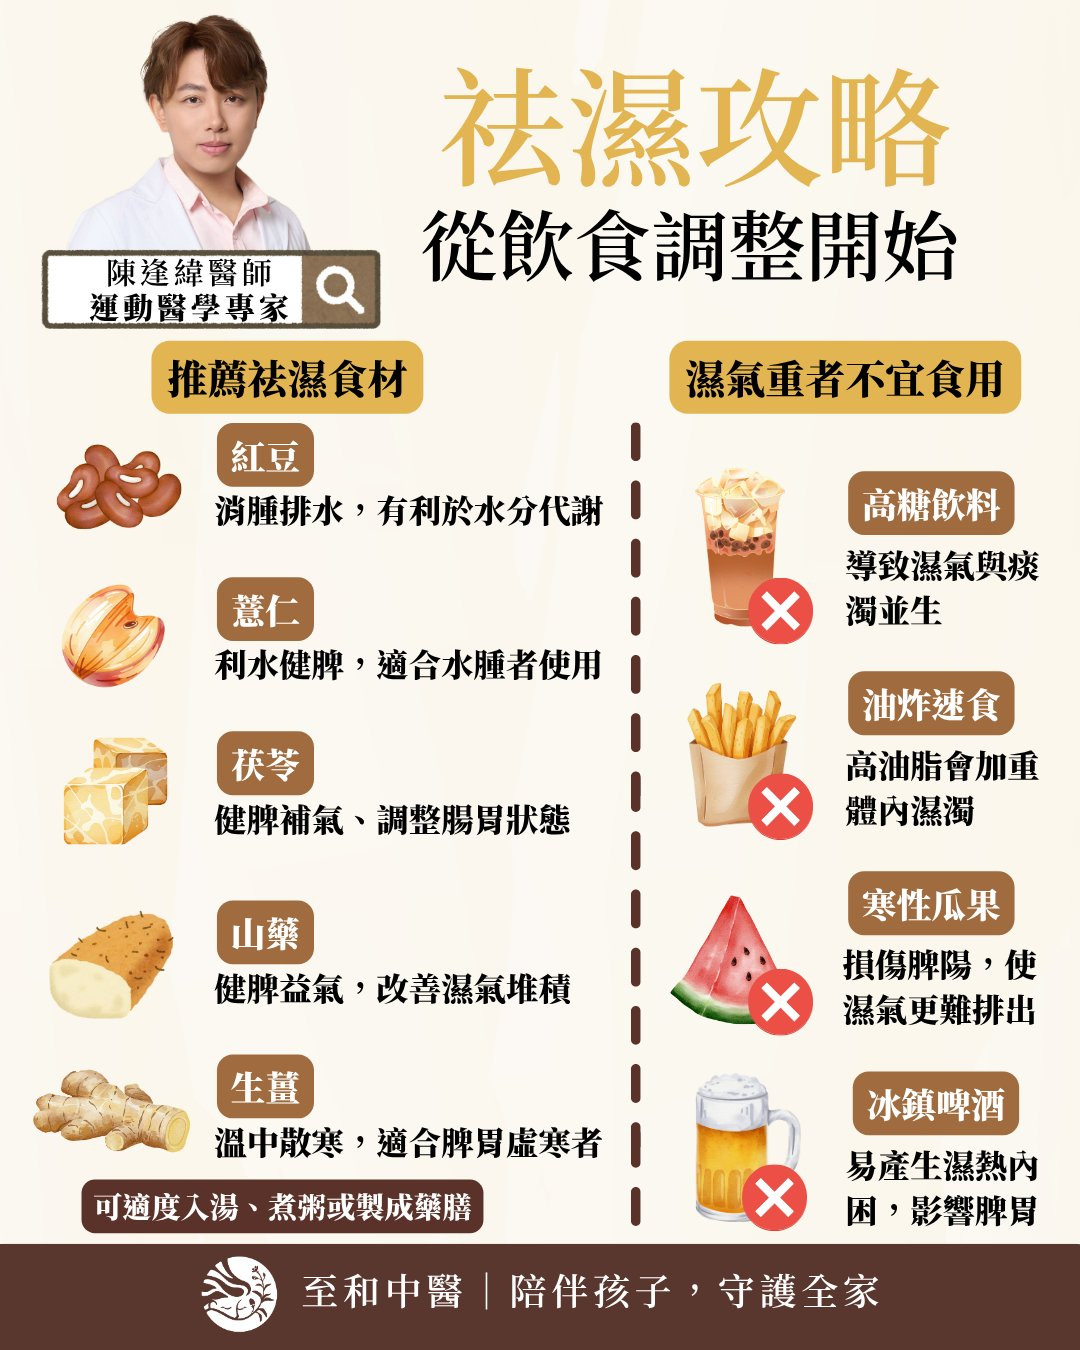
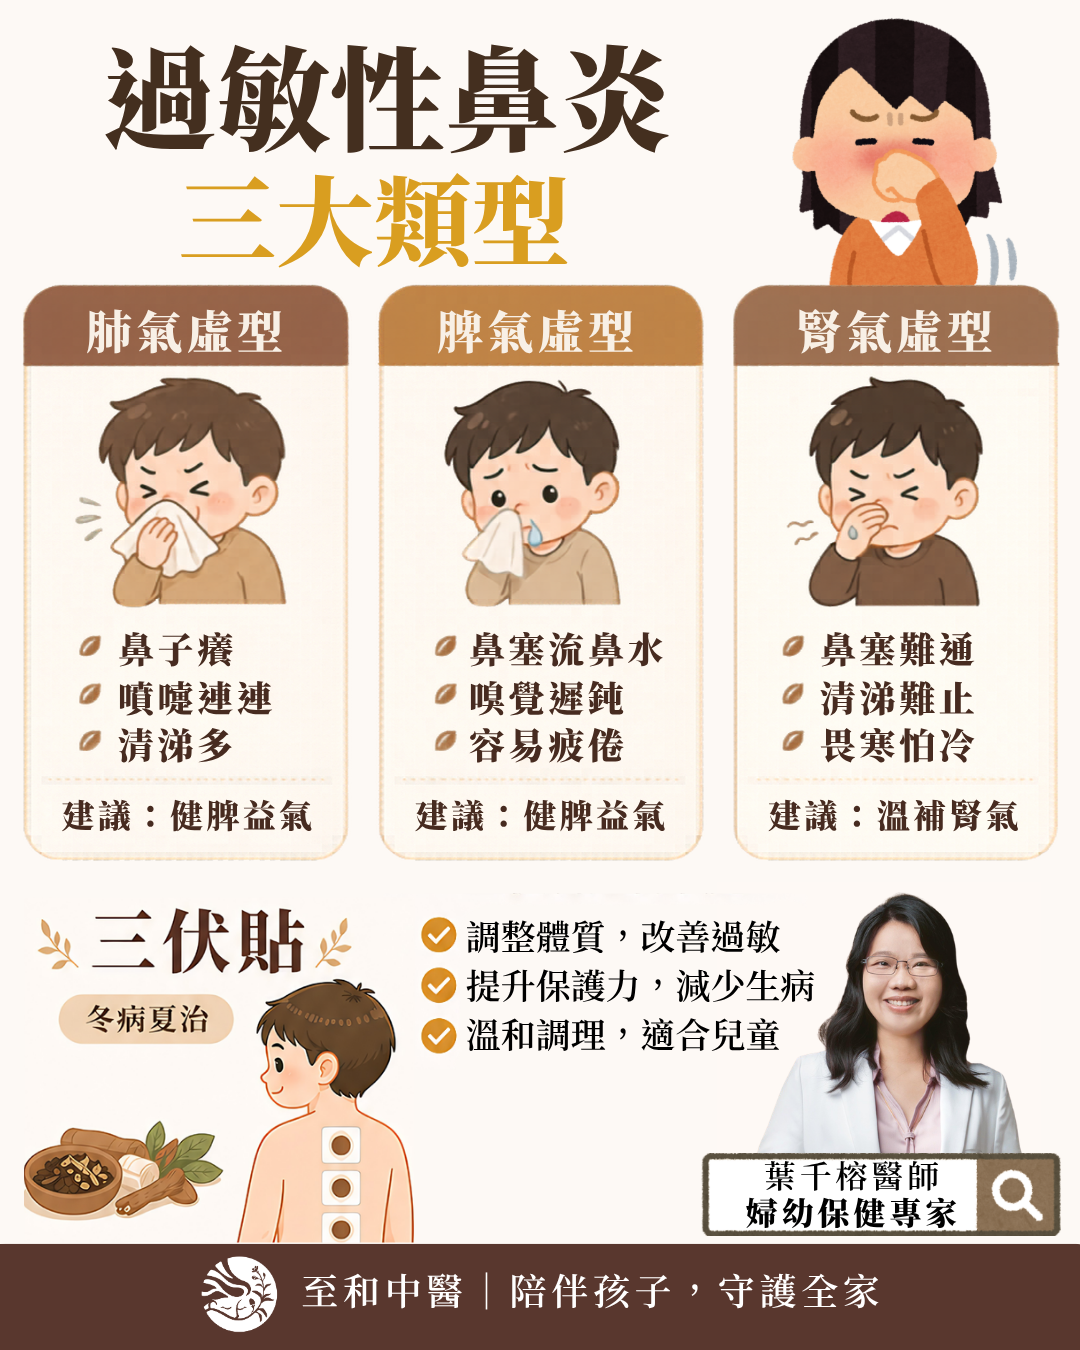
Add files via upload

diff --git a/index.html b/index.html
@@ -1,143 +1,52 @@
-<!DOCTYPE html>
-<html lang="zh-TW">
-<head>
-<meta charset="UTF-8">
-<meta name="viewport" content="width=device-width, initial-scale=1.0">
-<title>至和中醫｜過敏衛教</title>
-<link href="https://fonts.googleapis.com/css2?family=Noto+Serif+TC:wght@300;400;500;600&family=Noto+Sans+TC:wght@300;400;500&display=swap" rel="stylesheet">
-<style>
-  :root {
-    --brand-red: #6B3D2E;
-    --brand-gold: #9A7339;
-    --brand-dark: #1A1A1A;
-    --brand-muted: #A89070;
-    --brand-bg: #F7F5F0;
-    --brand-accent: #C9A344;
-    --brand-line: #06C755;
-  }
-  * { box-sizing: border-box; margin: 0; padding: 0; }
-  body { font-family: 'Noto Serif TC', serif; background-color: var(--brand-bg); color: var(--brand-dark); min-height: 100vh; }
-  .header { background: var(--brand-red); padding: 28px 20px 24px; text-align: center; position: relative; overflow: hidden; }
-  .header::before { content: ''; position: absolute; top: -40px; right: -40px; width: 160px; height: 160px; border-radius: 50%; background: rgba(201,163,68,0.12); }
-  .header::after { content: ''; position: absolute; bottom: -30px; left: -30px; width: 120px; height: 120px; border-radius: 50%; background: rgba(255,255,255,0.06); }
-  .header-logo { font-size: 13px; color: rgba(255,255,255,0.7); letter-spacing: 3px; font-family: 'Noto Sans TC', sans-serif; font-weight: 300; margin-bottom: 8px; }
-  .header-title { font-size: 28px; color: #fff; font-weight: 600; letter-spacing: 2px; line-height: 1.3; }
-  .header-sub { font-size: 14px; color: var(--brand-accent); margin-top: 6px; letter-spacing: 1px; font-weight: 400; }
-  .divider { display: flex; align-items: center; gap: 12px; padding: 0 24px; margin: 28px 0 20px; }
-  .divider-line { flex: 1; height: 1px; background: var(--brand-muted); opacity: 0.35; }
-  .divider-text { font-size: 13px; color: var(--brand-gold); letter-spacing: 2px; font-weight: 500; white-space: nowrap; }
-  .images-container { padding: 0 16px; display: flex; flex-direction: column; gap: 20px; }
-  .image-card { background: #fff; border-radius: 16px; overflow: hidden; border: 1px solid rgba(154,115,57,0.15); box-shadow: 0 2px 12px rgba(107,61,46,0.08); }
-  .image-card img { width: 100%; display: block; }
-  .image-caption { padding: 12px 16px; font-size: 13px; color: var(--brand-muted); text-align: center; letter-spacing: 1px; font-family: 'Noto Sans TC', sans-serif; font-weight: 300; }
-  .cta-section { padding: 32px 20px 16px; }
-  .cta-title { text-align: center; font-size: 18px; color: var(--brand-red); font-weight: 600; letter-spacing: 2px; margin-bottom: 6px; }
-  .cta-sub { text-align: center; font-size: 13px; color: var(--brand-muted); letter-spacing: 1px; margin-bottom: 24px; font-family: 'Noto Sans TC', sans-serif; font-weight: 300; }
-  .branch-list { display: flex; flex-direction: column; gap: 16px; }
-  .branch-card { background: #fff; border-radius: 16px; border: 1.5px solid rgba(154,115,57,0.2); box-shadow: 0 2px 10px rgba(107,61,46,0.07); overflow: hidden; position: relative; }
-  .branch-card::before { content: ''; position: absolute; left: 0; top: 0; bottom: 0; width: 4px; background: var(--brand-red); border-radius: 4px 0 0 4px; }
-  .branch-inner { display: flex; align-items: center; }
-  .doctor-photo { width: 100px; min-width: 100px; height: 120px; object-fit: cover; object-position: top center; display: block; }
-  .branch-content { flex: 1; padding: 14px 14px 14px 16px; display: flex; flex-direction: column; gap: 4px; }
-  .doctor-label { font-size: 11px; color: var(--brand-accent); letter-spacing: 1px; font-family: 'Noto Sans TC', sans-serif; font-weight: 500; }
-  .branch-name { font-size: 17px; font-weight: 600; color: var(--brand-red); letter-spacing: 1px; }
-  .branch-spec { font-size: 12px; color: var(--brand-muted); font-family: 'Noto Sans TC', sans-serif; font-weight: 300; letter-spacing: 0.5px; margin-bottom: 8px; }
-  .line-btn { display: inline-flex; align-items: center; gap: 6px; background: var(--brand-line); color: #fff; font-size: 13px; font-weight: 500; padding: 7px 14px; border-radius: 20px; text-decoration: none; font-family: 'Noto Sans TC', sans-serif; width: fit-content; }
-  .line-btn:active { opacity: 0.85; }
-  .footer { margin-top: 36px; padding: 24px 20px; background: var(--brand-red); text-align: center; }
-  .footer-brand { font-size: 15px; color: rgba(255,255,255,0.9); letter-spacing: 2px; font-weight: 500; margin-bottom: 4px; }
-  .footer-slogan { font-size: 12px; color: var(--brand-accent); letter-spacing: 2px; font-weight: 300; font-family: 'Noto Sans TC', sans-serif; }
-  .footer-line { width: 40px; height: 1px; background: rgba(201,163,68,0.4); margin: 14px auto 0; }
-  @media (min-width: 480px) {
-    .header-title { font-size: 34px; }
-    .images-container { padding: 0 24px; }
-    .cta-section { padding: 36px 28px 16px; }
-    .doctor-photo { width: 120px; min-width: 120px; height: 140px; }
-  }
-</style>
-</head>
-<body>
-
-<div class="header">
-  <div class="header-logo">至和中醫診所</div>
-  <div class="header-title">過敏衛教專區</div>
-  <div class="header-sub">鼻過敏・三伏貼・體質調理</div>
-</div>
-
-<div class="divider">
-  <div class="divider-line"></div>
-  <div class="divider-text">醫師衛教圖解</div>
-  <div class="divider-line"></div>
-</div>
-
+<!DOCTYPE html><html lang="zh-TW"><head><meta charset="UTF-8"><meta name="viewport" content="width=device-width, initial-scale=1.0"><link href="https://fonts.googleapis.com/css2?family=Noto+Serif+TC:wght@300;400;500;600&family=Noto+Sans+TC:wght@300;400;500&display=swap" rel="stylesheet"><title>至和中醫｜過敏衛教</title><style>
+  :root { --brand-red:#6B3D2E;--brand-gold:#9A7339;--brand-dark:#1A1A1A;--brand-muted:#A89070;--brand-bg:#F7F5F0;--brand-accent:#C9A344;--brand-line:#06C755; }
+  *{box-sizing:border-box;margin:0;padding:0;}
+  body{font-family:'Noto Serif TC',serif;background:var(--brand-bg);color:var(--brand-dark);min-height:100vh;}
+  .header{background:var(--brand-red);padding:28px 20px 24px;text-align:center;position:relative;overflow:hidden;}
+  .header::before{content:'';position:absolute;top:-40px;right:-40px;width:160px;height:160px;border-radius:50%;background:rgba(201,163,68,.12);}
+  .header::after{content:'';position:absolute;bottom:-30px;left:-30px;width:120px;height:120px;border-radius:50%;background:rgba(255,255,255,.06);}
+  .header-logo{font-size:13px;color:rgba(255,255,255,.7);letter-spacing:3px;font-family:'Noto Sans TC',sans-serif;font-weight:300;margin-bottom:8px;}
+  .header-title{font-size:28px;color:#fff;font-weight:600;letter-spacing:2px;line-height:1.3;}
+  .header-sub{font-size:14px;color:var(--brand-accent);margin-top:6px;letter-spacing:1px;}
+  .divider{display:flex;align-items:center;gap:12px;padding:0 24px;margin:28px 0 20px;}
+  .divider-line{flex:1;height:1px;background:var(--brand-muted);opacity:.35;}
+  .divider-text{font-size:13px;color:var(--brand-gold);letter-spacing:2px;font-weight:500;white-space:nowrap;}
+  .images-container{padding:0 16px;display:flex;flex-direction:column;gap:20px;}
+  .image-card{background:#fff;border-radius:16px;overflow:hidden;border:1px solid rgba(154,115,57,.15);box-shadow:0 2px 12px rgba(107,61,46,.08);}
+  .image-card img{width:100%;display:block;}
+  .image-footer{padding:10px 14px;display:flex;align-items:center;justify-content:space-between;gap:10px;border-top:1px solid rgba(154,115,57,.1);}
+  .image-caption{font-size:12px;color:var(--brand-muted);letter-spacing:.5px;font-family:'Noto Sans TC',sans-serif;font-weight:300;flex:1;}
+  .download-btn{display:inline-flex;align-items:center;gap:5px;background:var(--brand-bg);color:var(--brand-gold);font-size:12px;font-weight:500;padding:6px 12px;border-radius:20px;text-decoration:none;font-family:'Noto Sans TC',sans-serif;border:1px solid rgba(154,115,57,.3);white-space:nowrap;flex-shrink:0;}
+  .cta-section{padding:32px 20px 16px;}
+  .cta-title{text-align:center;font-size:18px;color:var(--brand-red);font-weight:600;letter-spacing:2px;margin-bottom:6px;}
+  .cta-sub{text-align:center;font-size:13px;color:var(--brand-muted);letter-spacing:1px;margin-bottom:24px;font-family:'Noto Sans TC',sans-serif;font-weight:300;}
+  .branch-list{display:flex;flex-direction:column;gap:16px;}
+  .branch-card{background:#fff;border-radius:16px;border:1.5px solid rgba(154,115,57,.2);box-shadow:0 2px 10px rgba(107,61,46,.07);overflow:hidden;position:relative;}
+  .branch-card::before{content:'';position:absolute;left:0;top:0;bottom:0;width:4px;background:var(--brand-red);border-radius:4px 0 0 4px;}
+  .branch-inner{display:flex;align-items:center;}
+  .doctor-photo{width:100px;min-width:100px;height:120px;object-fit:cover;object-position:top center;display:block;}
+  .branch-content{flex:1;padding:14px 14px 14px 16px;display:flex;flex-direction:column;gap:4px;}
+  .doctor-label{font-size:11px;color:var(--brand-accent);letter-spacing:1px;font-family:'Noto Sans TC',sans-serif;font-weight:500;}
+  .branch-name{font-size:17px;font-weight:600;color:var(--brand-red);letter-spacing:1px;}
+  .branch-spec{font-size:12px;color:var(--brand-muted);font-family:'Noto Sans TC',sans-serif;font-weight:300;letter-spacing:.5px;margin-bottom:8px;}
+  .line-btn{display:inline-flex;align-items:center;gap:6px;background:var(--brand-line);color:#fff;font-size:13px;font-weight:500;padding:7px 14px;border-radius:20px;text-decoration:none;font-family:'Noto Sans TC',sans-serif;width:fit-content;}
+  .footer{margin-top:36px;padding:24px 20px;background:var(--brand-red);text-align:center;}
+  .footer-brand{font-size:15px;color:rgba(255,255,255,.9);letter-spacing:2px;font-weight:500;margin-bottom:4px;}
+  .footer-slogan{font-size:12px;color:var(--brand-accent);letter-spacing:2px;font-weight:300;font-family:'Noto Sans TC',sans-serif;}
+  .footer-line{width:40px;height:1px;background:rgba(201,163,68,.4);margin:14px auto 0;}
+  @media(min-width:480px){.header-title{font-size:34px;}.images-container{padding:0 24px;}.cta-section{padding:36px 28px 16px;}.doctor-photo{width:120px;min-width:120px;height:140px;}}
+</style></head><body>
+<div class="header"><div class="header-logo">至和中醫診所</div><div class="header-title">過敏衛教專區</div><div class="header-sub">鼻過敏・三伏貼・體質調理</div></div>
+<div class="divider"><div class="divider-line"></div><div class="divider-text">醫師衛教圖解</div><div class="divider-line"></div></div>
 <div class="images-container">
-  <div class="image-card">
-    <img src="186.png" alt="過敏性鼻炎三大類型">
-    <div class="image-caption">過敏性鼻炎三大類型｜葉千榕醫師 · 婦幼保健專家</div>
-  </div>
-  <div class="image-card">
-    <img src="187.png" alt="鼻過敏4大穴位開關">
-    <div class="image-caption">鼻過敏4大穴位｜吳昱衡醫師 · 兒少成長專家</div>
-  </div>
-  <div class="image-card">
-    <img src="191.png" alt="三伏貼 誰適合貼？">
-    <div class="image-caption">三伏貼適合對象｜葉千榕醫師 · 婦幼保健專家</div>
-  </div>
+<div class="image-card"><img src="186.png" alt="過敏性鼻炎三大類型"><div class="image-footer"><div class="image-caption">過敏性鼻炎三大類型｜葉千榕醫師 · 婦幼保健專家</div></div></div>
+<div class="image-card"><img src="187.png" alt="鼻過敏4大穴位"><div class="image-footer"><div class="image-caption">鼻過敏4大穴位｜吳昱衡醫師 · 兒少成長專家</div></div></div>
+<div class="image-card"><img src="191.png" alt="三伏貼"><div class="image-footer"><div class="image-caption">三伏貼適合對象｜葉千榕醫師 · 婦幼保健專家</div></div></div>
 </div>
-
-<div class="cta-section">
-  <div class="cta-title">立即預約門診</div>
-  <div class="cta-sub">選擇離您最近的院所・找專屬醫師諮詢</div>
-
-  <div class="branch-list">
-
-    <!-- 大寮 - 葉千榕 -->
-    <div class="branch-card">
-      <div class="branch-inner">
-        <img class="doctor-photo" src="dr_daliao.jpg" alt="葉千榕醫師">
-        <div class="branch-content">
-          <div class="doctor-label">推薦醫師｜葉千榕 · 婦幼保健專家</div>
-          <div class="branch-name">大寮院所</div>
-          <div class="branch-spec">調經／助孕／中風／運動傷害</div>
-          <a href="https://lin.ee/tdZSAIDT" class="line-btn" target="_blank" rel="noopener">LINE 預約 ›</a>
-        </div>
-      </div>
-    </div>
-
-    <!-- 鳳林 - 吳昱衡 -->
-    <div class="branch-card">
-      <div class="branch-inner">
-        <img class="doctor-photo" src="dr_fenglin.jpg" alt="吳昱衡醫師">
-        <div class="branch-content">
-          <div class="doctor-label">推薦醫師｜吳昱衡 · 兒少成長專家</div>
-          <div class="branch-name">鳳林院所</div>
-          <div class="branch-spec">轉骨／性功能障礙／痠痛／睡眠</div>
-          <a href="https://lin.ee/9ug5xDU" class="line-btn" target="_blank" rel="noopener">LINE 預約 ›</a>
-        </div>
-      </div>
-    </div>
-
-    <!-- 新富 - 林怡君 -->
-    <div class="branch-card">
-      <div class="branch-inner">
-        <img class="doctor-photo" src="dr_xinfu.jpg" alt="林怡君醫師">
-        <div class="branch-content">
-          <div class="doctor-label">推薦醫師｜林怡君 · 婦兒調理專家</div>
-          <div class="branch-name">新富院所</div>
-          <div class="branch-spec">月經／轉骨／過敏／更年期</div>
-          <a href="https://lin.ee/7kVxhtB" class="line-btn" target="_blank" rel="noopener">LINE 預約 ›</a>
-        </div>
-      </div>
-    </div>
-
-  </div>
-</div>
-
-<div class="footer">
-  <div class="footer-brand">至和中醫診所</div>
-  <div class="footer-slogan">陪伴孩子，守護全家</div>
-  <div class="footer-line"></div>
-</div>
-
-</body>
-</html>
+<div class="cta-section"><div class="cta-title">立即預約門診</div><div class="cta-sub">選擇離您最近的院所・找專屬醫師諮詢</div><div class="branch-list">
+<div class="branch-card"><div class="branch-inner"><img class="doctor-photo" src="dr1.jpg" alt="葉千榕"><div class="branch-content"><div class="doctor-label">推薦醫師｜葉千榕 · 婦幼保健專家</div><div class="branch-name">大寮院所</div><div class="branch-spec">調經／助孕／中風／運動傷害</div><a href="https://lin.ee/tdZSAIDT" class="line-btn" target="_blank" rel="noopener">LINE 預約 ›</a></div></div></div>
+<div class="branch-card"><div class="branch-inner"><img class="doctor-photo" src="dr2.jpg" alt="吳昱衡"><div class="branch-content"><div class="doctor-label">推薦醫師｜吳昱衡 · 兒少成長專家</div><div class="branch-name">鳳林院所</div><div class="branch-spec">轉骨／性功能障礙／痠痛／睡眠</div><a href="https://lin.ee/9ug5xDU" class="line-btn" target="_blank" rel="noopener">LINE 預約 ›</a></div></div></div>
+<div class="branch-card"><div class="branch-inner"><img class="doctor-photo" src="dr3.jpg" alt="林怡君"><div class="branch-content"><div class="doctor-label">推薦醫師｜林怡君 · 婦兒調理專家</div><div class="branch-name">新富院所</div><div class="branch-spec">月經／轉骨／過敏／更年期</div><a href="https://lin.ee/7kVxhtB" class="line-btn" target="_blank" rel="noopener">LINE 預約 ›</a></div></div></div>
+<div class="branch-card"><div class="branch-inner"><img class="doctor-photo" src="dr4.jpg" alt="陳映融"><div class="branch-content"><div class="doctor-label">推薦醫師｜陳映融 · 轉骨專家（副院長）</div><div class="branch-name">鼎山院所</div><div class="branch-spec">轉骨／過敏／感冒咳嗽／失眠</div><a href="https://lin.ee/tXFO3e5" class="line-btn" target="_blank" rel="noopener">LINE 預約 ›</a></div></div></div>
+</div></div>
+<div class="footer"><div class="footer-brand">至和中醫診所</div><div class="footer-slogan">陪伴孩子，守護全家</div><div class="footer-line"></div></div></body></html>
